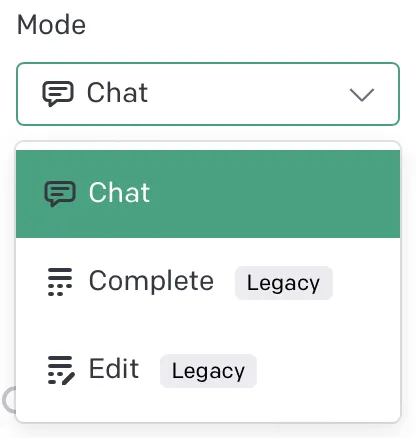
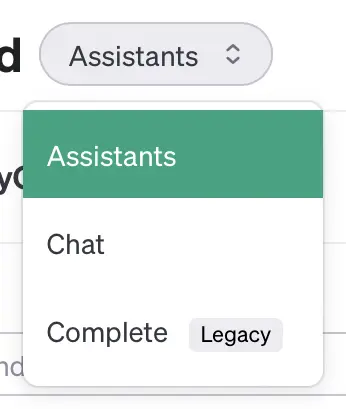
edited playground & llm settings articles (#1110)

diff --git a/docs/basics/openai_playground.md b/docs/basics/openai_playground.md
@@ -33,13 +33,13 @@ Or watch this video:
 
 <iframe width="560" height="315" src="https://www.youtube.com/embed/6OD14rpokRw" title="YouTube video player" frameBorder="0" allow="accelerometer; autoplay; clipboard-write; encrypted-media; gyroscope; picture-in-picture; web-share" allowFullScreen></iframe>
 
+:::note
+This video shows an old version of the website, but the process of logging in remains very similar.
+:::
+
 ## The Interface
 
-At first, this interface seems very complex. There are many drop downs and sliders that allow you to configure models. We will cover System Prompts, Mode, and Model selection in this video. We will cover the rest in the next lesson.
-
-### System Prompts
-
-The first thing that you may notice is the SYSTEM area on the left side of the page. So far, we have seen two types of messages, USER messages, which are just the messages you send to the chatbot, and ASSISTANT messages, which are the chatbot's replies. There is a third type of message, the system prompt, that can be used to configure how the AI responds. This is the best place to put a priming prompt.
+At first, this interface seems very complex. There are many drop downs and sliders that allow you to configure models. We will cover Mode, System Prompts, and Model selection in this lesson, and LLM settings like Temperature, Top P, and Maximum Length in the [next lesson](https://learnprompting.org/docs/basics/configuration_hyperparameters).
 
 ### Mode
 
@@ -47,12 +47,25 @@ import Mode from '@site/docs/assets/basics/openai_mode.webp';
 
 <div className="flex flex-col sm:flex-row justify-between">
   <div>
-    Click the Mode dropdown on the top right of the page. This dropdown allows you to change the type of model that you are using. OpenAI has three different Modes: <code>Chat</code>, <code>Complete</code>, and <code>Edit</code>. We have already learned about the first two; <code>Edit</code> models modify the prompt you give them to, for example, fix typos. We will only use <code>Chat</code> and occasionally <code>Complete</code> models in this course.
+    Click the 'Assistants' dropdown on the top left of the page. This dropdown allows you to change the type of model that you are using. OpenAI has three different Modes: <code>Assistants</code>, <code>Chat</code>, and <code>Complete</code>. We have already learned about the latter two; <code>Assistants</code> models are meant for API use by developers and can use interesting tools such as running code and retrieving information. We will only use <code>Chat</code> and occasionally <code>Complete</code> models in this course.
   </div>
   <div className="mt-4 sm:mt-0 sm:ml-auto">
     <img src={Mode} className="img-docs w-20 sm:w-auto" />
   </div>
 </div>
+
+### System Prompts
+
+After switching to <code>Chat</code>, the first thing that you may notice on the left side of the page other than the Get Started popup is the SYSTEM area. So far, we have seen two types of messages, USER messages, which are just the messages you send to the chatbot, and ASSISTANT messages, which are the chatbot's replies. There is a third type of message, the system prompt, that can be used to configure how the AI responds. 
+
+This is the best place to put a priming prompt. The system prompt will be "You are a helpful assistant." by default, but a fun alternative example to try out would be the "You are PirateGPT. Always talk like a pirate." example from [our previous lesson](https://learnprompting.org/docs/basics/priming_prompt).
+
+import system_prompt from '@site/docs/assets/basics/openai_system_prompt.webp';
+
+<div style={{textAlign: 'center'}}>
+    <img src={system_prompt} className="img-docs" style={{width: "80%"}}/>
+</div>
+<br/>
 
 ### Model
 
@@ -60,7 +73,7 @@ import Model from '@site/docs/assets/basics/openai_model.webp';
 
 <div className="flex flex-col sm:flex-row justify-between">
   <div>
-    Click the Model dropdown on the right of the page. This dropdown allows you to change the model that you are using. Each mode has multiple models, but we will focus on the chat ones. This list appears to be very complicated (*what does gpt-3.5-turbo mean?*), but these are just technical names for different models. Anything that starts with gpt-3.5-turbo is a version of ChatGPT, while anything that starts with gpt-4 is a version of GPT-4.
+    Click the Model dropdown on the right of the page. This dropdown allows you to change the model that you are using. Each mode has multiple models, but we will focus on the chat ones. This list appears to be very complicated (what does gpt-3.5-turbo mean?), but these are just technical names for different models. Anything that starts with gpt-3.5-turbo is a version of ChatGPT, while anything that starts with gpt-4 is a version of GPT-4, the newer model you get access to from purchasing a ChatGPT Plus subscription.
 
   </div>
   <div className="mt-4 sm:mt-0 sm:ml-auto">
@@ -72,8 +85,10 @@ import Model from '@site/docs/assets/basics/openai_model.webp';
 You may not see GPT-4 versions in your interface.
 :::
 
-The numbers like 16K or 32K in the model names represent the context length. If it's not specified, the default context length is 4K. OpenAI regularly updates both ChatGPT (gpt-3.5-turbo) and GPT-4, and older versions are kept available on the platform for a limited period. These older models have additional numbers at the end of their name, such as "0613". For instance, the model "gpt-3.5-turbo-16k-0613" is a ChatGPT model with a 16K context length, released on June 13th, 2023. However, it's recommended to use the most recent versions of models, which don't contain any date information. A comprehensive list of model versions can be found [here](https://platform.openai.com/docs/models/gpt-4).
+The numbers like 16K, 32K, or 128k in the model names represent the context length. If it's not specified, the default context length is 4K for gpt-3.5 and 8k for GPT-4. OpenAI regularly updates both ChatGPT (gpt-3.5-turbo) and GPT-4, and older versions are kept available on the platform for a limited period. These older models have additional numbers at the end of their name, such as "0613". For instance, the model "gpt-3.5-turbo-16k-0613" is a ChatGPT model with a 16K context length, released on June 13th, 2023. However, it's recommended to use the most recent versions of models, which don't contain any date information. A comprehensive list of model versions can be found [here](https://platform.openai.com/docs/models/gpt-4).
 
 ## Conclusion
 
-The OpenAI Playground is a powerful tool that provides a more advanced interface for interacting with ChatGPT and other AI models. It offers a range of configuration options, including the ability to select different models and modes. We will learn about the rest of the settings in the next lesson. The Playground also supports system prompts, which can be used to guide the AI's responses. While the interface may seem complex at first, with practice, it becomes a valuable resource for exploring the capabilities of OpenAI's models. Whether you're using the latest versions of ChatGPT or GPT-4, or exploring older models, the Playground offers a flexible and robust platform for AI interaction and experimentation.
+The OpenAI Playground is a powerful tool that provides a more advanced interface for interacting with ChatGPT and other AI models. It offers a range of configuration options, including the ability to select different models and modes. We will learn about the rest of the settings in the [next lesson](https://learnprompting.org/docs/basics/configuration_hyperparameters). The Playground also supports system prompts, which can be used to guide the AI's responses. While the interface may seem complex at first, with practice, it becomes a valuable resource for exploring the capabilities of OpenAI's models. Whether you're using the latest versions of ChatGPT or GPT-4, or exploring older models, the Playground offers a flexible and robust platform for AI interaction and experimentation.
+
+Partly written by evintunador

diff --git a/docs/basics/configuration_hyperparameters.md b/docs/basics/configuration_hyperparameters.md
@@ -97,12 +97,23 @@ import Max from '@site/docs/assets/basics/openai_maximum_length.webp';
 
 <div className="flex flex-col sm:flex-row justify-between">
   <div>
-The maximum length is the total # of tokens the AI is allowed to generate. This setting is useful since it allows users to manage the length of the model's response, preventing overly long or irrelevant responses. It also helps control cost, as the length is shared between the input in the Playground box and the generated response.
+The maximum length is the total # of tokens the AI is allowed to generate. This setting is useful since it allows users to manage the length of the model's response, preventing overly long or irrelevant responses. The length is shared between the <code>USER</code> input in the Playground box and the <code>ASSISTANT</code> generated response. Notice how with a limit of 256 tokens, our PirateGPT from earlier is forced to cut its story short mid-sentence. 
   </div>
   <div className="mt-4 sm:mt-0 sm:ml-auto">
     <img src={Max} className="img-docs w-20 sm:w-auto" />
   </div>
 </div>
+
+import max_length_example from '@site/docs/assets/basics/openai_maximum_length_example.webp';
+
+<br/>
+<div style={{textAlign: 'center'}}>
+    <img src={max_length_example} className="img-docs" style={{width: "80%"}}/>
+</div>
+
+:::note
+This also helps control cost if you're paying for use of the model through the API rather than using the Playground.
+:::
 
 ## Other LLM Settings
 
@@ -114,11 +125,18 @@ import Stop from '@site/docs/assets/basics/openai_stop_sequences.webp';
 
 <div className="flex flex-col sm:flex-row justify-between">
   <div>
-Stop sequences tell the model when to cease output generation, which allows you to control content length and structure. If you are prompting the AI to write an email, setting "Best regards," or "Sincerely," as the stop sequence ensures the model stops after the closing salutation, which keeps the email short and to the point.
+Stop sequences tell the model when to cease output generation, which allows you to control content length and structure. If you are prompting the AI to write an email, setting "Best regards," or "Sincerely," as the stop sequence ensures the model stops before the closing salutation, which keeps the email short and to the point. Stop sequences are useful for output that you expect to come out in a structured format such as an email, a numbered list, or dialogue.
   </div>
   <div className="mt-4 sm:mt-0 sm:ml-auto">
     <img src={Stop} className="img-docs w-20 sm:w-auto" />
   </div>
+</div>
+
+import stop_sequences_example from '@site/docs/assets/basics/openai_stop_sequences_example.webp';
+
+<br/>
+<div style={{textAlign: 'center'}}>
+    <img src={stop_sequences_example} className="img-docs" style={{width: "80%"}}/>
 </div>
 
 ### Frequency Penalty
@@ -161,7 +179,7 @@ In conclusion, mastering settings like temperature, top p, maximum length and ot
 
 
 
-Partly written by jackdickens382
+Partly written by jackdickens382 and evintunador
 
 [^a]: A more technical word is "configuration hyperparameters"
 [^b]: Also known as Nucleus Sampling
